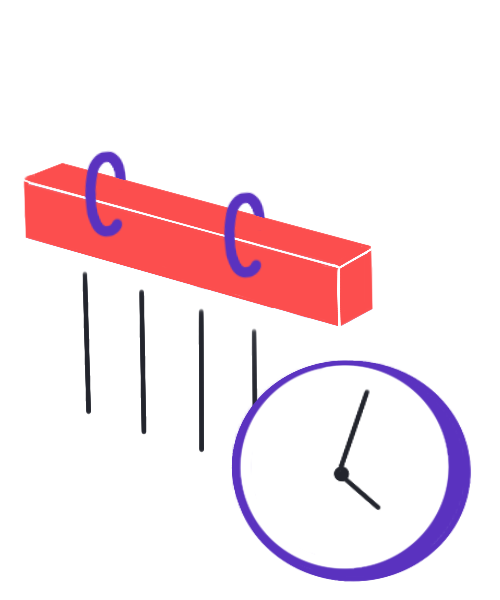
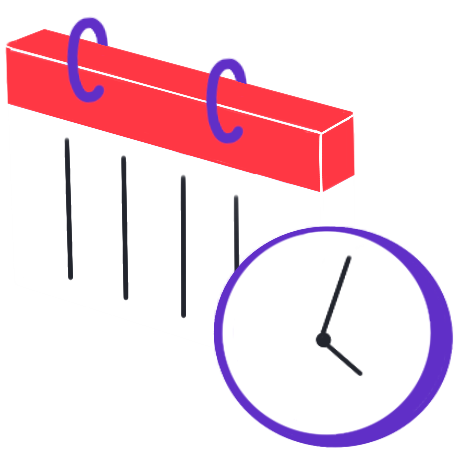
update images

diff --git a/frontend/src/components/Home.js b/frontend/src/components/Home.js
@@ -10,7 +10,7 @@
 import { useEffect, useState } from "react";
 import { Button } from "@material-ui/core";
 import hStyle from "./style/Home.module.css";
-import LoginGraphic from "./res/homepage__.gif";
+import LoginGraphic from "./res/homepage_final.gif";
 import DegreeGraphic from "./res/Icon_DegreePlanner.png";
 import SchedulerGraphic from "./res/Icon_Scheduler.png";
 import Popup from "./reusable/Popup";
@@ -39,7 +39,7 @@ function Home(props) {
       <div className={hStyle.horizontalContainer}>
         
         <div className={hStyle.content}>
-          <h1 style={{ fontSize: "70px" }}>JARney.</h1>
+          <h1 style={{ fontSize: "70px" }}>JARney<span style={{color: "#fc4e4e"}}>.</span></h1>
           Plan out your Tufts experience, from four-year (or five-year!) plans
           to semesterly schedules.
           <br />
